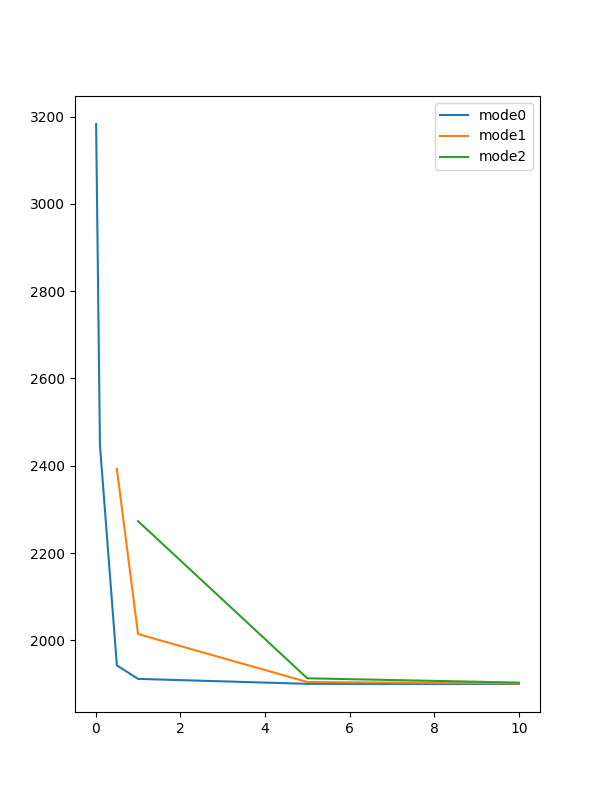
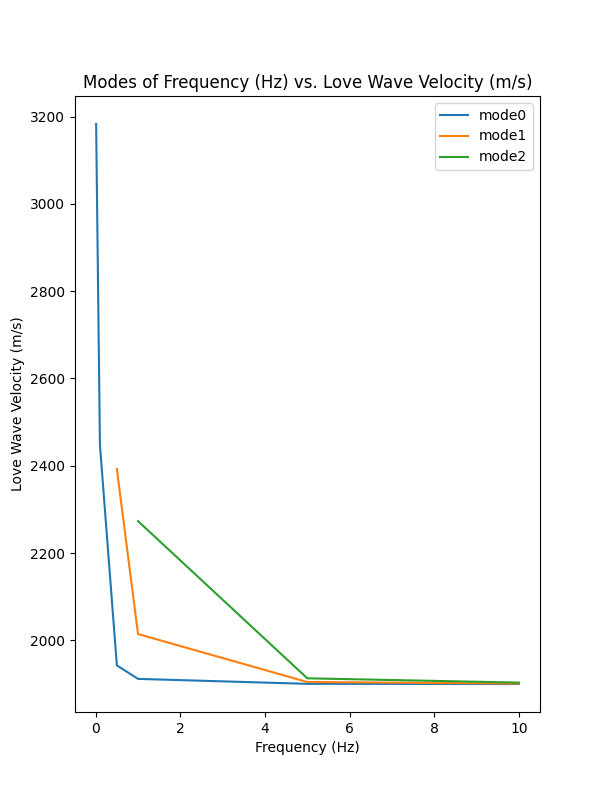
formatting and graph finalizing

diff --git a/examples/love_driver.py b/examples/love_driver.py
@@ -72,7 +72,11 @@ def main():
     for f, cl in zip(modes_f, modes_cl):
         plt.plot(f, cl, label=f"mode{i}")
         i+=1
+
+    plt.title("Modes of Frequency (Hz) vs. Love Wave Velocity (m/s)")
     plt.legend()
+    plt.xlabel("Frequency (Hz)")
+    plt.ylabel("Love Wave Velocity (m/s)")
     plt.savefig("../figures/cl_modes.png")
     plt.close("all")
 
@@ -80,7 +84,11 @@ def main():
     for f, wave in zip(modes_f, modes_wave):
         plt.plot(f, wave, label=f"mode{i}")
         i+=1
+
+    plt.title("Modes of Frequency (Hz) vs. Wavelength (m)")
     plt.legend()
+    plt.xlabel("Frequency (Hz)")
+    plt.ylabel("Wavelength (m)")
     plt.savefig("../figures/wave_modes.png")
 
 if __name__=="__main__":
